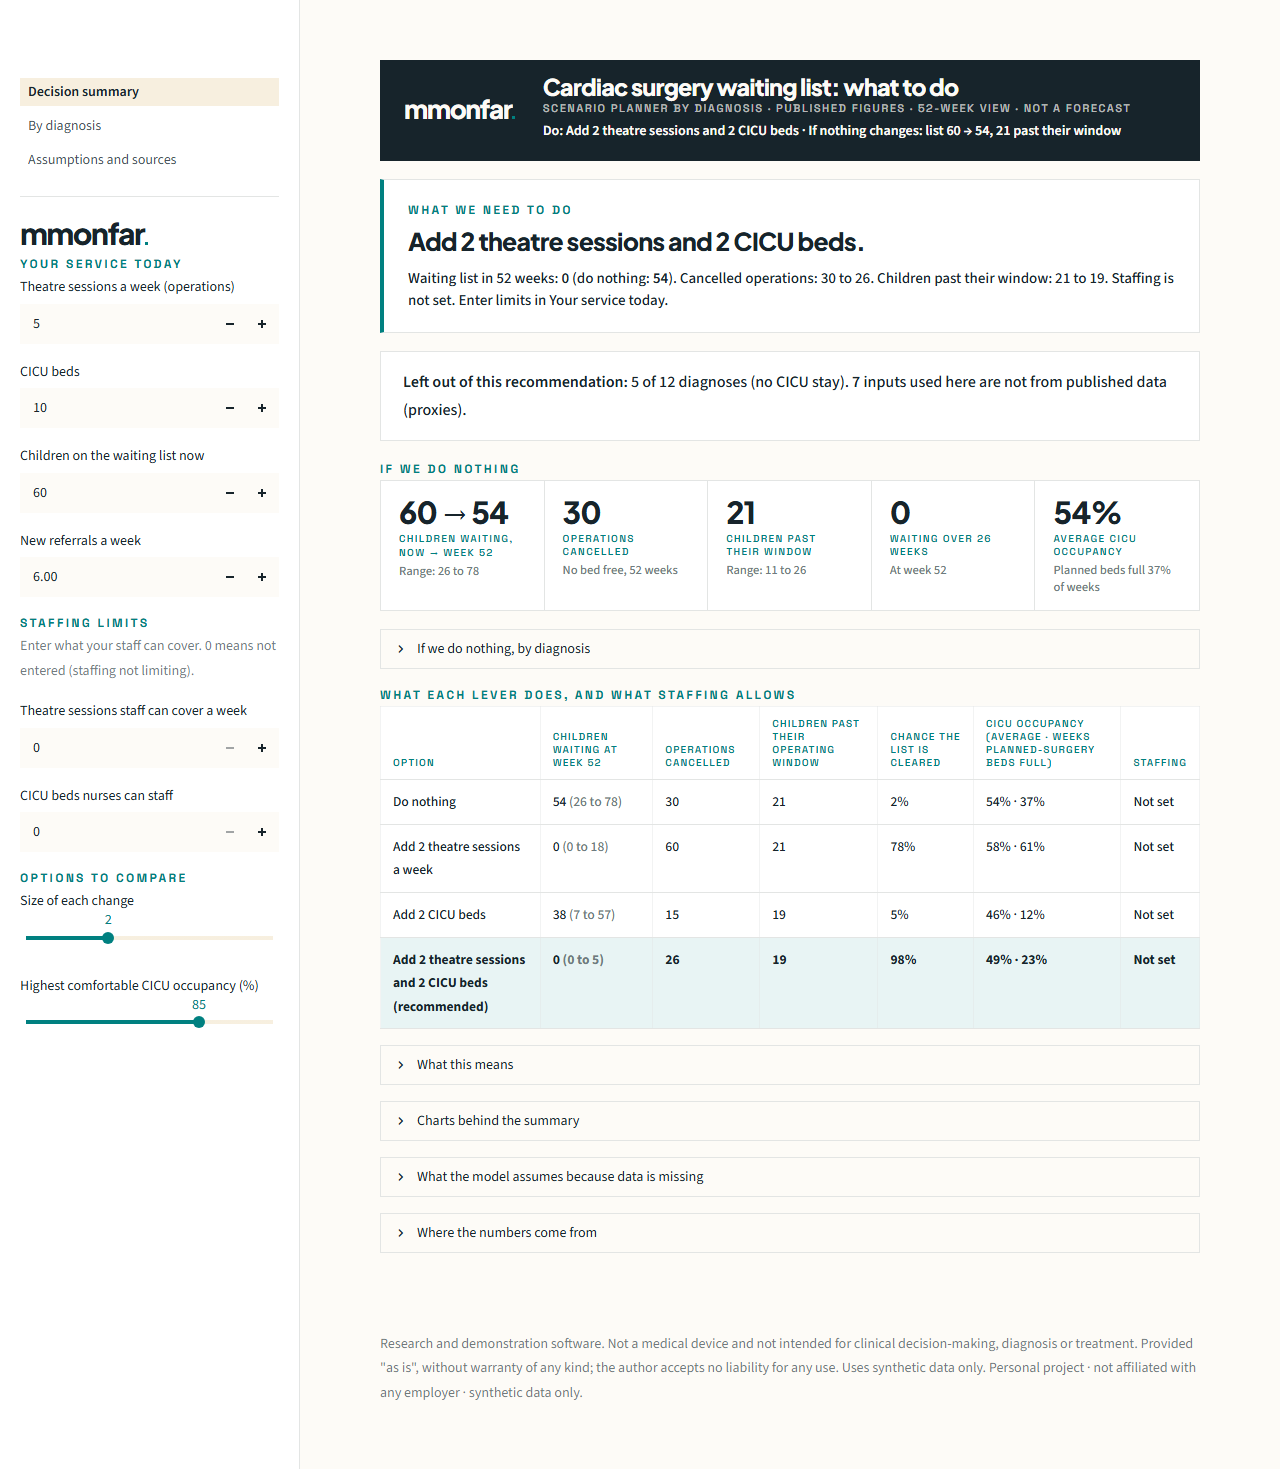
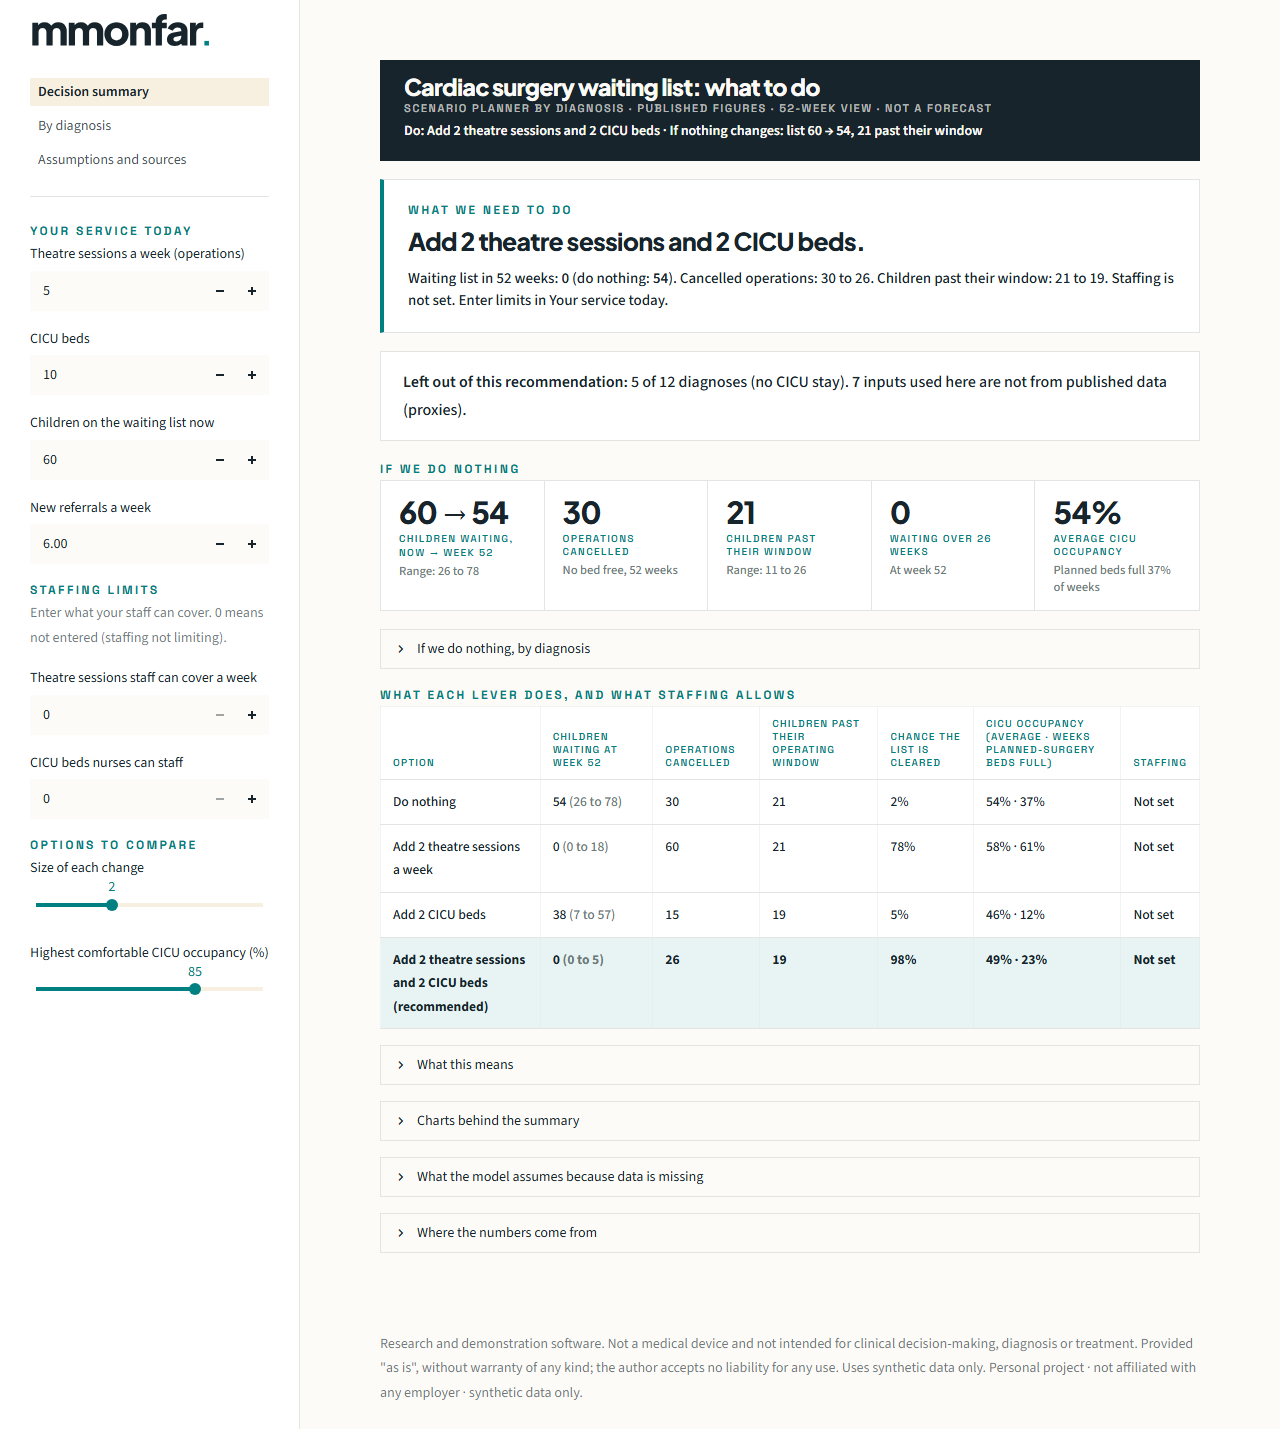
docs: re-capture stills from v2.2.3; add a capture script
- tools/capture_stills.py starts the app, captures each page at 390, 768
  and 1280 px (first screen + full page), fails if the page shows other
  than exactly one logo, and stops the app.
- Stills in docs/screenshots/v2.2 now show v2.2.3 (one logo, top left).
- Removed four unreferenced v2.1 stills.

diff --git a/tools/capture_stills.py b/tools/capture_stills.py
@@ -1,0 +1,106 @@
+"""Re-capture the README / docs stills from the running app, the same way every release.
+
+Starts the planner on a free local port, captures each page at 390, 768 and 1280 px
+(first screen + full page) into ``docs/screenshots/v2.2/``, then stops the server.
+
+    PYTHONPATH=src python tools/capture_stills.py [--python PATH]
+
+Needs ``playwright`` (``python -m playwright install chromium``) for the capture itself;
+``--python`` picks the interpreter that has the app's dependencies.
+"""
+
+from __future__ import annotations
+
+import argparse
+import os
+import socket
+import subprocess
+import sys
+import time
+import urllib.request
+from pathlib import Path
+
+from playwright.sync_api import sync_playwright
+
+ROOT = Path(__file__).resolve().parents[1]
+OUT = ROOT / "docs" / "screenshots" / "v2.2"
+PAGES = {"": "summary", "diagnosis": "diagnosis", "assumptions": "assumptions"}
+WIDTHS = {390: 844, 768: 1024, 1280: 800}
+SETTLE_S = 60  # the summary page runs the simulation before it draws
+
+
+def free_port() -> int:
+    with socket.socket() as s:
+        s.bind(("127.0.0.1", 0))
+        return s.getsockname()[1]
+
+
+def wait_up(url: str, timeout: float = 60) -> None:
+    end = time.time() + timeout
+    while time.time() < end:
+        try:
+            urllib.request.urlopen(url, timeout=2)
+            return
+        except OSError:
+            time.sleep(1)
+    raise SystemExit(f"app did not start at {url}")
+
+
+def name(page: str, width: int, kind: str) -> str:
+    prefix = "after" if page == "summary" else f"after-{page}"
+    return f"{prefix}-{width}-{kind}.png"
+
+
+def main() -> None:
+    ap = argparse.ArgumentParser()
+    ap.add_argument("--python", default=sys.executable)
+    args = ap.parse_args()
+    port = free_port()
+    env = {**os.environ, "PYTHONPATH": str(ROOT / "src")}
+    server = subprocess.Popen(
+        [args.python, "-m", "streamlit", "run", "src/cardiac_capacity_planner/app.py",
+         "--server.port", str(port), "--server.headless", "true"],
+        cwd=ROOT, env=env, stdout=subprocess.DEVNULL, stderr=subprocess.DEVNULL,
+    )
+    try:
+        base = f"http://127.0.0.1:{port}/"
+        wait_up(base)
+        OUT.mkdir(parents=True, exist_ok=True)
+        with sync_playwright() as p:
+            browser = p.chromium.launch()
+            for path, page_name in PAGES.items():
+                for width, height in WIDTHS.items():
+                    page = browser.new_page(viewport={"width": width, "height": height})
+                    page.goto(base + path)
+                    page.wait_for_selector(".ccp-band", timeout=SETTLE_S * 1000)
+                    page.wait_for_function(
+                        "!document.querySelector('[data-testid=\"stStatusWidget\"]')",
+                        timeout=SETTLE_S * 1000,
+                    )
+                    page.wait_for_timeout(1500)
+                    logos = page.locator(
+                        '[data-testid="stSidebarLogo"]:visible, [data-testid="stHeaderLogo"]:visible'
+                    ).count()
+                    if logos != 1:
+                        raise SystemExit(f"{page_name} at {width}px shows {logos} logos, expected 1")
+                    page.screenshot(path=OUT / name(page_name, width, "first-screen"))
+                    # Streamlit scrolls inside its main panel, so grow the viewport to the
+                    # panel's height instead of relying on full_page.
+                    tall = page.evaluate(
+                        "Math.max(...[...document.querySelectorAll("
+                        "'[data-testid=\"stMain\"], [data-testid=\"stAppViewContainer\"]')]"
+                        ".map(e => e.scrollHeight))"
+                    )
+                    page.set_viewport_size({"width": width, "height": max(height, int(tall))})
+                    page.wait_for_timeout(1500)
+                    page.screenshot(path=OUT / name(page_name, width, "full"))
+                    print("captured", page_name, width)
+                    page.close()
+            browser.close()
+    finally:
+        server.terminate()
+        server.wait(timeout=20)
+
+
+if __name__ == "__main__":
+    main()
